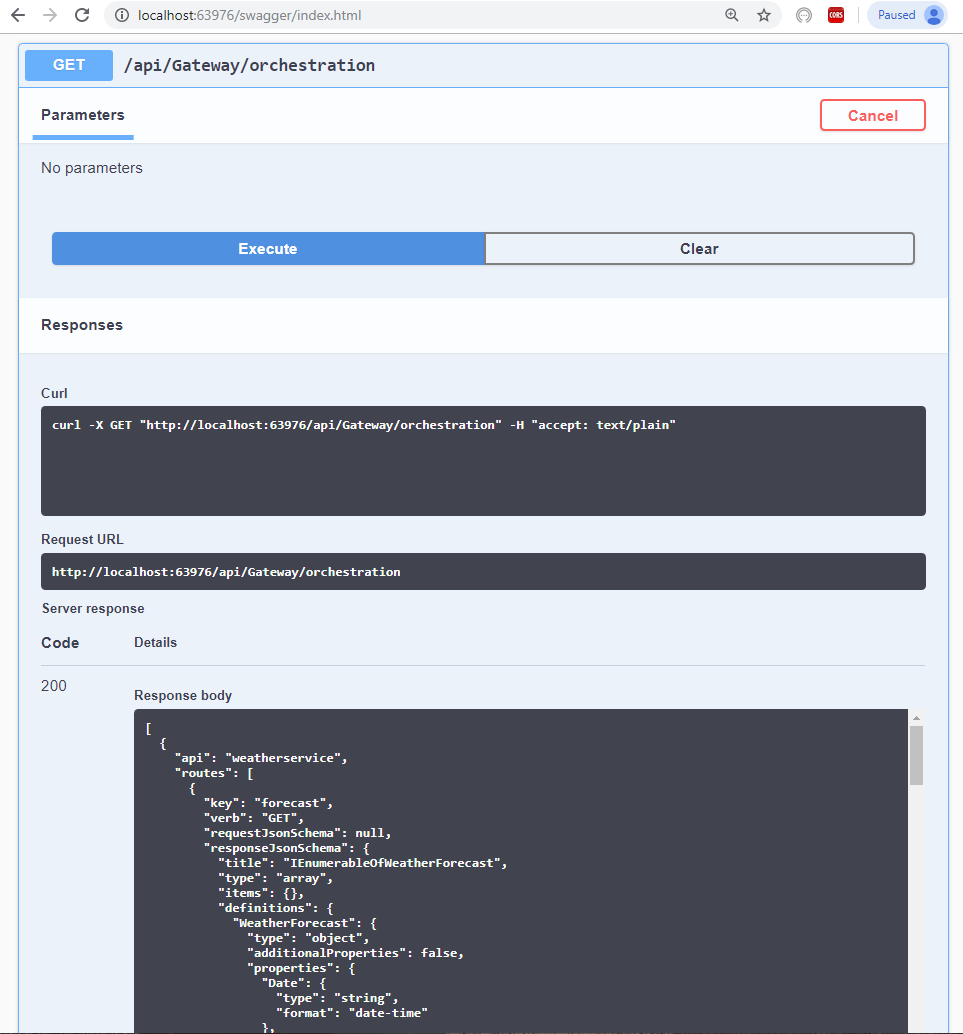
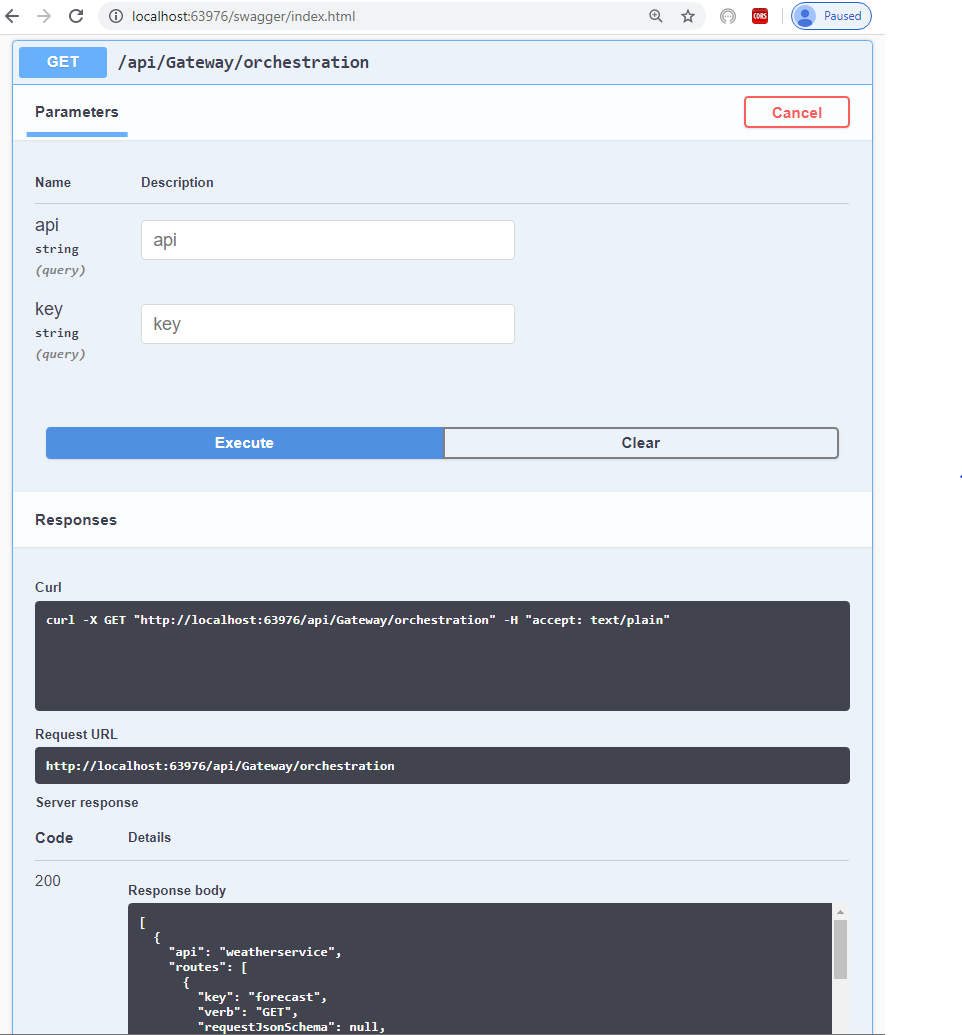
added filtering by api and route keys to orchestration endpoint.

diff --git a/AspNetCore.ApiGateway/Controllers/GatewayController.cs b/AspNetCore.ApiGateway/Controllers/GatewayController.cs
@@ -3,6 +3,9 @@ using Microsoft.AspNetCore.Http;
 using Microsoft.AspNetCore.Mvc;
 using Microsoft.Extensions.Logging;
 using Newtonsoft.Json;
+using System;
+using System.Collections.Generic;
+using System.Linq;
 using System.Net.Http;
 using System.Net.Http.Headers;
 using System.Text;
@@ -205,9 +208,19 @@ namespace AspNetCore.ApiGateway.Controllers
         [Route("orchestration")]
         [ServiceFilter(typeof(GatewayGetOrchestrationAuthorizeAttribute))]
         [ProducesResponseType(StatusCodes.Status200OK, Type = typeof(Orchestration))]
-        public async Task<IActionResult> GetOrchestration()
+        public async Task<IActionResult> GetOrchestration(string api = null, string key =  null)
         {
-            return Ok(await Task.FromResult(_apiOrchestrator.Orchestration));
+            return Ok(await Task.FromResult(string.IsNullOrEmpty(api) ? _apiOrchestrator.Orchestration 
+                                            : (string.IsNullOrEmpty(key)
+                                            ? _apiOrchestrator.Orchestration?.Where(x => string.Compare(api.Trim(), x.Api, StringComparison.InvariantCultureIgnoreCase) == 0)
+                                            : _apiOrchestrator.Orchestration?.Where(x => string.Compare(api.Trim(), x.Api, StringComparison.InvariantCultureIgnoreCase) == 0)
+                                                                             .Select(x => 
+                                                                             {
+                                                                                 var routes = new List<Route>(x.Routes);
+                                                                                 routes.RemoveAll(y => string.Compare(key.Trim(), y.Key, StringComparison.InvariantCultureIgnoreCase) != 0);
+                                                                                 x.Routes = routes;
+                                                                                 return x;
+                                                                             }))));
         }
     }
 }

diff --git a/README_Orchestration.md b/README_Orchestration.md
@@ -10,15 +10,25 @@ You can call the endpoint in **Swagger** to view your Api Orchestration.
 
 ![API Gateway Swagger](https://github.com/VeritasSoftware/AspNetCore.ApiGateway/blob/master/Orchestration.PNG)
 
+You can filter by Api Key. This way you can get all the information on an Api.
+
+Eg.
+**/api/Gateway/orchestration?api=weatherservice**
+
+You can filter by Api Key and Route Key. This way you can get all information of a Route.
+
+Eg.
+**/api/Gateway/orchestration?api=weatherservice&key=forecast**
+
 **Note:**
 
 You can secure this endpoint by implementing interface **IGetOrchestrationGatewayAuthorization** in your Gateway API project.
-
 Please see **Authorization** section for more information on how to do this.
 
 The Api Orchestration returned by the endpoint has:
 
 *	All Api Keys and their Route Keys,
+*	The Verb
 *	The Request and Response Json Schema of each Route (if specified).
 
 The response is like below:
